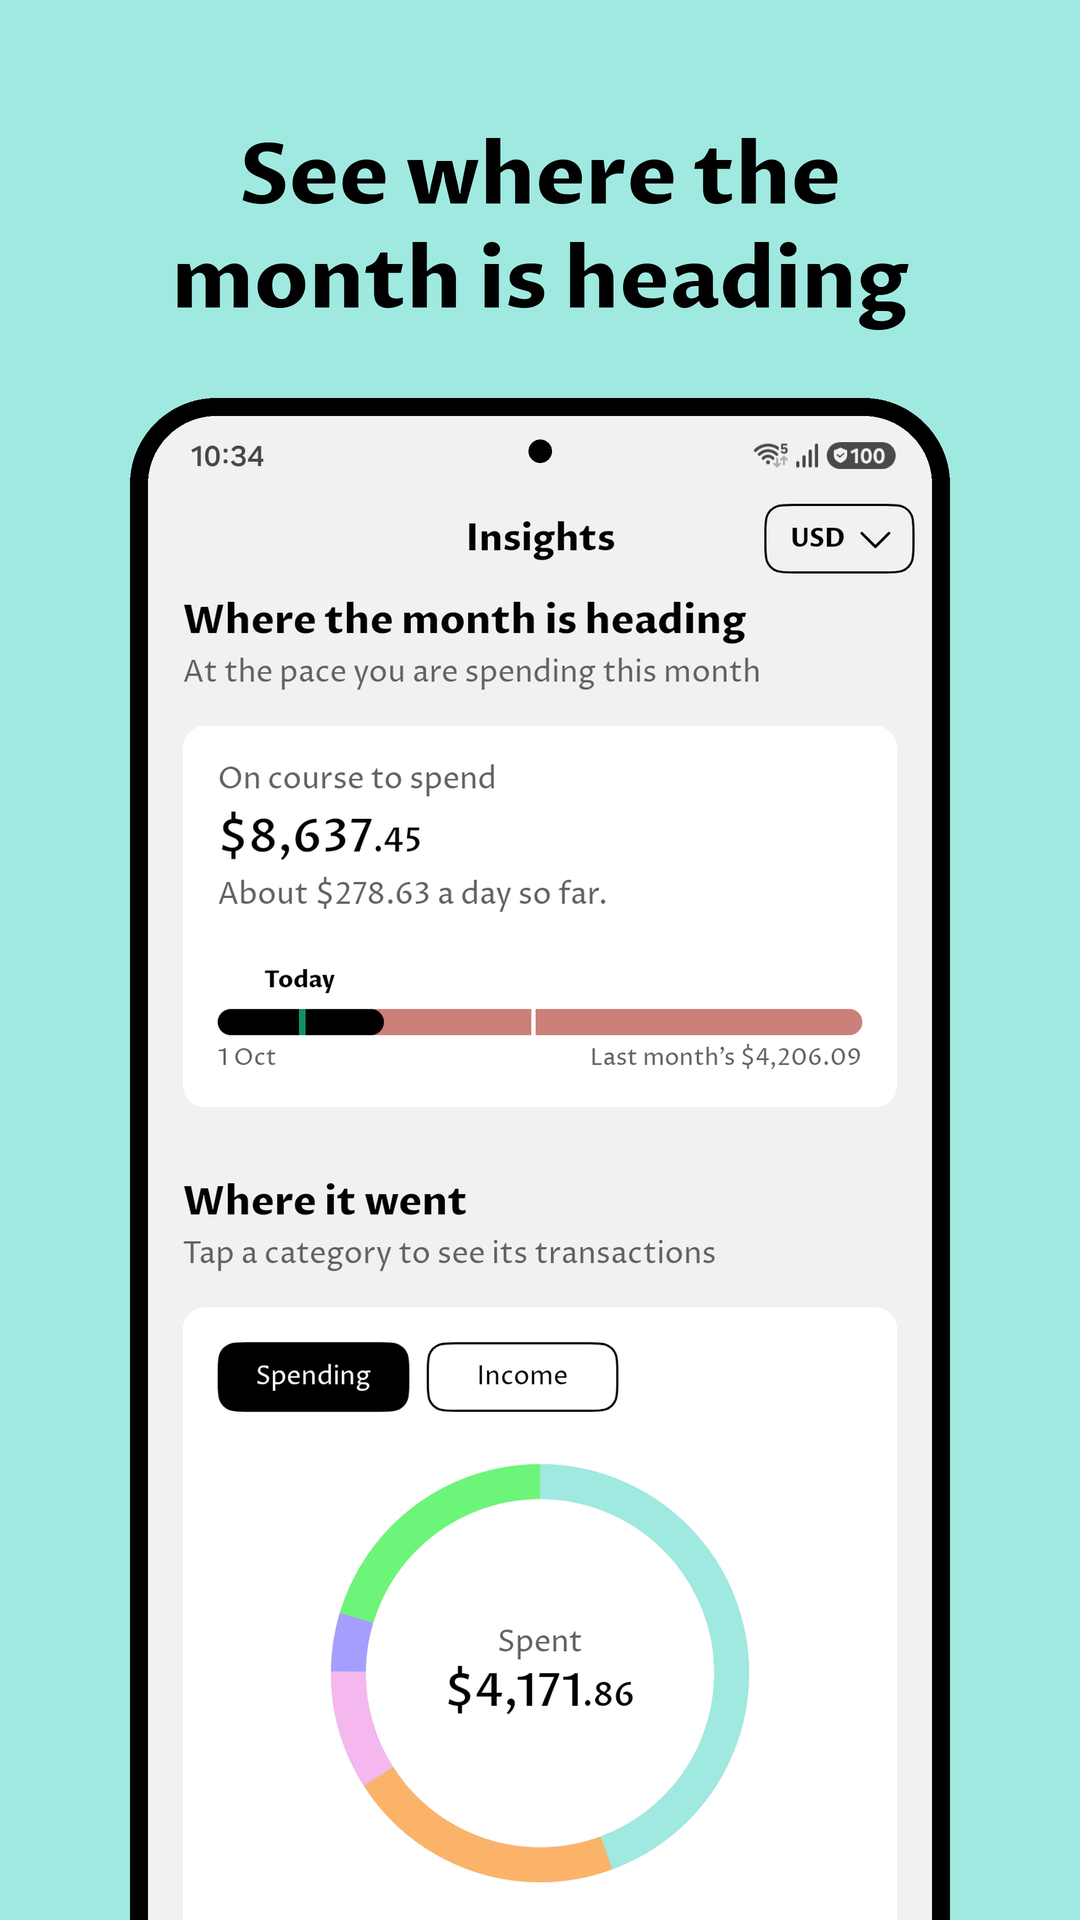
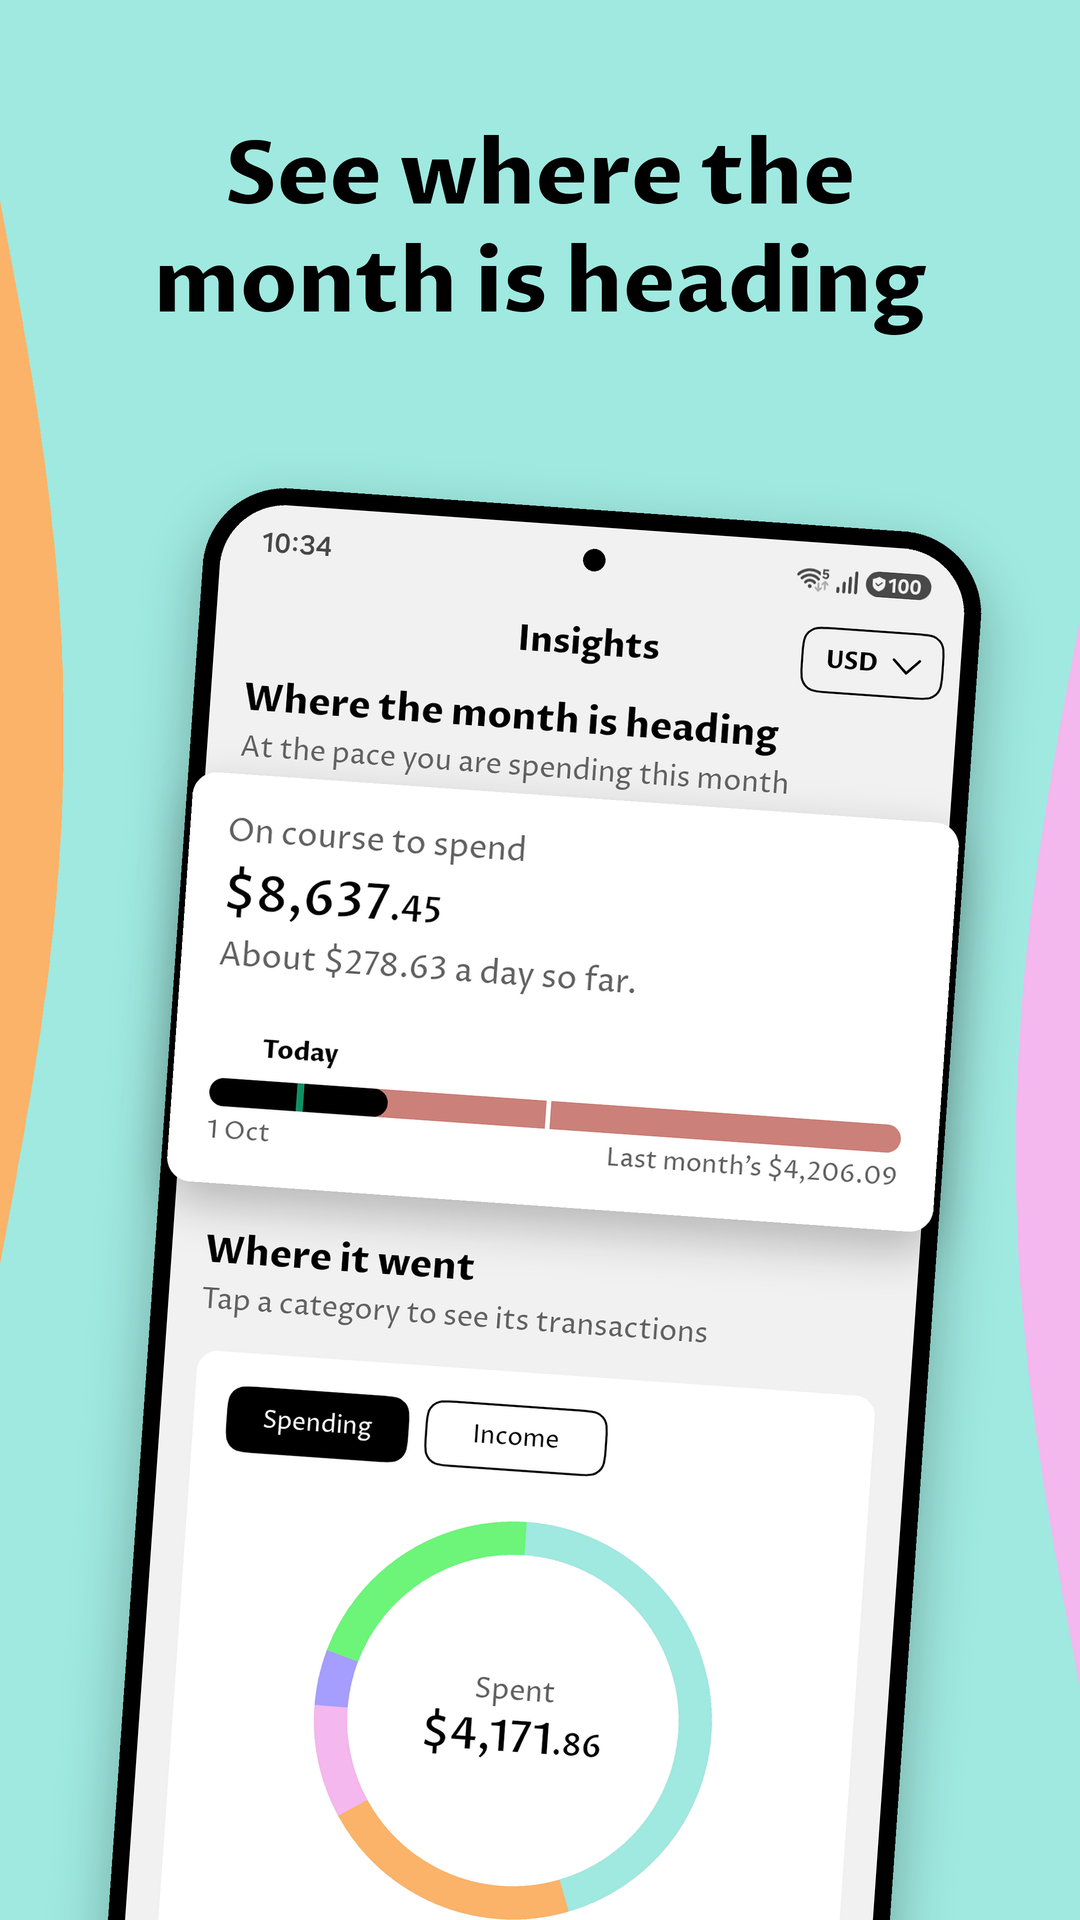
feat(store): screenshots as one running strip, with cards lifted out; new feature graphic and mockups

Changed region(s): [[0.0917, 0.0625, 1.0, 1.0], [0.0, 0.125, 0.0611, 0.6562], [0.5194, 0.4375, 0.55, 0.4688]]

diff --git a/scripts/generate-store-assets.py b/scripts/generate-store-assets.py
@@ -3,9 +3,12 @@
 Draws the store's pictures from the phone screenshots in store/raw:
 
   store/play/01-…png        Google Play screenshots, 1080 x 1920 (Play refuses anything taller than 2:1,
-                            so a raw 1080 x 2340 capture cannot be uploaded as it is)
+                            so a raw 1080 x 2340 capture cannot be uploaded as it is). They are cut from
+                            one long picture, so the grounds and the lifted cards run on from each into the next.
+  store/play-strip.jpg      that long picture, reduced, to look at
   store/feature-graphic.png Google Play feature graphic, 1024 x 500
-  store/mockups/…png        each screen in a phone frame on a clear ground, and three together
+  store/mockups/…png        each screen in a phone frame on a clear ground, and the phones
+                            together: a fan, a cascade and the cards by themselves
 
     python3 scripts/generate-store-assets.py      (needs Pillow)
 
@@ -14,7 +17,8 @@ with the status bar cleaned (`adb shell am broadcast -a com.android.systemui.dem
 the typeface and the mark are the design system's; the headlines are in HEADLINES below.
 """
 from pathlib import Path
-from PIL import Image, ImageDraw, ImageFont
+import math
+from PIL import Image, ImageDraw, ImageFilter, ImageFont
 
 ROOT = Path(__file__).resolve().parent.parent
 RAW = ROOT / 'store' / 'raw'
@@ -28,18 +32,35 @@ PAGE = (241, 241, 241)
 BRAND_DEEP = (1, 106, 77)
 BRAND = (17, 182, 122)
 BRAND_BRIGHT = (108, 245, 121)
-PASTEL = {'lilac': (165, 158, 254), 'pink': (244, 183, 238), 'orange': (251, 179, 105), 'teal': (159, 233, 224), 'green': (108, 245, 121)}
+PASTEL = {'lilac': (165, 158, 254), 'pink': (244, 183, 238), 'orange': (251, 179, 105), 'teal': (159, 233, 224), 'green': (108, 245, 121), 'blue': (172, 196, 247)}
 
-# Each Play screenshot: the capture, the line over it, and its ground ('waves' is the launch screen's).
-HEADLINES = [
-    ('home', 'Know where your\nmoney goes', 'waves'),
-    ('add', 'Add an expense\nin seconds', 'lilac'),
-    ('accounts', 'Every account,\nevery currency', 'orange'),
-    ('insights-30b', 'See where the\nmonth is heading', 'teal'),
-    ('insights-30c', 'Know what\nyou spend on', 'pink'),
-    ('loan', 'Lent or borrowed,\nnever forgotten', 'green'),
-    ('activity', 'Everything you\nrecorded, in one list', 'page'),
+# The cards lifted out of a screen: the capture, and roughly where the card is in it (snapped to its edge).
+CARDS = {
+    'balance': ('home', (48, 259, 1032, 823)),
+    'stack': ('home-accounts', (48, 793, 1032, 1533)),
+    'amount': ('add', (48, 454, 1032, 748)),
+    'euro': ('accounts', (48, 503, 1032, 694)),
+    'rupee': ('accounts', (48, 1507, 1032, 1893)),
+    'forecast': ('insights-30b', (48, 427, 1032, 951)),
+    'donut': ('insights-30b', (48, 1400, 1032, 2075)),
+    'loan': ('loan', (48, 259, 1032, 949)),
+    'day': ('activity', (48, 664, 1032, 1051)),
+    'spending': ('insights-30c', (48, 690, 1032, 1160)),
+}
+
+# Each Play screenshot: the capture, the line over it, its ground ('waves' is the launch screen's),
+# and the cards lifted out of it. A lifted card is drawn over its own place on the phone, a little
+# larger and at the phone's lean, so it stands out past the frame on both sides.
+SCREENS = [
+    ('home', 'Know where your\nmoney goes', 'waves', ['balance']),
+    ('add', 'Add an expense\nin seconds', 'lilac', ['amount']),
+    ('accounts', 'Every account,\nevery currency', 'orange', ['euro', 'rupee']),
+    ('insights-30b', 'See where the\nmonth is heading', 'teal', ['forecast']),
+    ('insights-30c', 'Know what\nyou spend on', 'pink', ['spending']),
+    ('loan', 'Lent or borrowed,\nnever forgotten', 'blue', ['loan']),
+    ('activity', 'Everything you\nrecorded, in one list', 'page', ['day']),
 ]
+LIFT = 1.13  # how much larger a lifted card is than the same card on the phone under it
 
 SS = 2  # everything is drawn at twice its size and reduced, for clean edges
 
@@ -57,22 +78,16 @@ def cubic(p0, p1, p2, p3, steps=40):
     return pts
 
 
-def waves(w, h):
-    """The launch screen's ground (design/components/WaveField.tsx), at any size."""
+def waves(w, h, deep=1.0):
+    """The launch screen's ground (design/components/WaveField.tsx), at any size; `deep` flattens the dark wave."""
     im = Image.new('RGB', (w, h), BRAND)
     d = ImageDraw.Draw(im)
     p = lambda x, y: (x * w, y * h)
-    deep = cubic(p(0.26, 0), p(0.5, 0.17), p(0.78, 0.06), p(1, 0.27)) + [p(1, 0)]
-    d.polygon(deep, fill=BRAND_DEEP)
+    dark = cubic(p(0.26, 0), p(0.5, 0.17 * deep), p(0.78, 0.06 * deep), p(1, 0.27 * deep)) + [p(1, 0)]
+    d.polygon(dark, fill=BRAND_DEEP)
     bright = [p(0, 1), p(0, 0.84)] + cubic(p(0, 0.84), p(0.16, 0.75), p(0.3, 0.91), p(0.48, 0.84)) + cubic(p(0.48, 0.84), p(0.68, 0.76), p(0.82, 0.85), p(1, 0.7)) + [p(1, 1)]
     d.polygon(bright, fill=BRAND_BRIGHT)
     return im
-
-
-def ground(kind, w, h):
-    if kind == 'waves':
-        return waves(w, h)
-    return Image.new('RGB', (w, h), PAGE if kind == 'page' else PASTEL[kind])
 
 
 def phone(shot, width):
@@ -103,6 +118,80 @@ def mark(width):
     return im.resize((width, round(width * im.height / im.width)), Image.LANCZOS)
 
 
+def shot(name):
+    return Image.open(RAW / f'{name}.png').convert('RGB')
+
+
+def shadowed(layer, blur, drop, strength=70):
+    """A layer with a soft shadow under it; the picture grows by the returned pad on every side."""
+    pad = blur * 3
+    out = Image.new('RGBA', (layer.width + 2 * pad, layer.height + 2 * pad), (0, 0, 0, 0))
+    shade = Image.new('RGBA', out.size, (0, 0, 0, 0))
+    shade.paste(INK + (strength,), (pad, pad + drop), layer.getchannel('A'))
+    out = Image.alpha_composite(out, shade.filter(ImageFilter.GaussianBlur(blur)))
+    out.alpha_composite(layer, (pad, pad))
+    return out
+
+
+def put(im, layer, cx, cy):
+    im.alpha_composite(layer, (round(cx - layer.width / 2), round(cy - layer.height / 2)))
+
+
+def tilted(layer, degrees):
+    """Turned by `degrees`, clockwise."""
+    return layer.rotate(-degrees, resample=Image.BICUBIC, expand=True) if degrees else layer
+
+
+def card(name, width, lean=0, shade=True):
+    """A card lifted out of its screen: cut on its own edge, corners rounded, `width` across, leaning."""
+    source, (l, t, r, b) = CARDS[name]
+    im = shot(source)
+    # Snap each side to where the grey page ends, when that is within a few pixels of the given box.
+    m = 14
+    near = im.crop((l - m, t - m, r + m, b + m))
+    off = near.point(lambda v: 255 if abs(v - PAGE[0]) > 3 else 0).convert('L').getbbox()
+    if off:
+        l, r = (l - m + off[0] if off[0] > 0 else l), (l - m + off[2] if off[2] < near.width else r)
+        t, b = (t - m + off[1] if off[1] > 0 else t), (t - m + off[3] if off[3] < near.height else b)
+    cut = im.crop((l, t, r, b)).convert('RGBA')
+    scale = width / cut.width
+    cut = cut.resize((width, round(cut.height * scale)), Image.LANCZOS)
+    mask = Image.new('L', (cut.width * 2, cut.height * 2), 0)
+    ImageDraw.Draw(mask).rounded_rectangle((0, 0, mask.width - 1, mask.height - 1), radius=round(30 * scale * 2), fill=255)
+    cut.putalpha(mask.resize(cut.size, Image.LANCZOS))
+    cut = tilted(cut, lean)
+    return shadowed(cut, max(4, round(width * 0.03)), max(3, round(width * 0.025)), 64) if shade else cut
+
+
+def device(name, width, lean=0):
+    """A screen in its phone, leaning, with its shadow."""
+    return shadowed(tilted(phone(shot(name), width), lean), max(4, round(width * 0.035)), max(3, round(width * 0.03)), 72)
+
+
+# A phone laid back and turned, as drawn on an isometric grid: where its width and its height point.
+LAID = ((0.88, 0.36), (-0.52, 0.80))
+
+
+def laid_back(layer, depth, axes=LAID):
+    """A phone laid back (an affine picture of it), given `depth` pixels of thickness."""
+    (ax, ay), (bx, by) = axes
+    w, h = layer.size
+    xs = [0, ax * w, bx * h, ax * w + bx * h]
+    ys = [0, ay * w, by * h, ay * w + by * h]
+    ox, oy = -min(xs), -min(ys)
+    size = (math.ceil(max(xs) + ox), math.ceil(max(ys) + oy))
+    det = ax * by - bx * ay
+    # Pillow wants the way back: from a point of the result to a point of the phone.
+    back = (by / det, -bx / det, (bx * oy - by * ox) / det, -ay / det, ax / det, (ay * ox - ax * oy) / det)
+    face = layer.transform(size, Image.AFFINE, back, resample=Image.BICUBIC)
+    out = Image.new('RGBA', (size[0], size[1] + depth), (0, 0, 0, 0))
+    side = Image.new('RGBA', size, (38, 38, 38, 255))
+    for i in range(depth, 0, -1):
+        out.paste(side, (0, i), face.getchannel('A'))
+    out.alpha_composite(face)
+    return out
+
+
 def centred_text(draw, text, f, cx, top, fill, leading):
     y = top
     for line in text.split('\n'):
@@ -112,56 +201,117 @@ def centred_text(draw, text, f, cx, top, fill, leading):
     return y
 
 
-def play_screenshot(name, headline, kind):
-    W, H = 1080 * SS, 1920 * SS
-    im = ground(kind, W, H)
+PANEL = (1080, 1920)
+
+
+def play_strip():
+    """All the Play screenshots as one picture, so the grounds and the cards run on from one into the next."""
+    pw, ph = PANEL[0] * SS, PANEL[1] * SS
+    W, H = pw * len(SCREENS), ph
+    im = Image.new('RGBA', (W, H), BRAND + (255,))
+    # The dark wave is kept shallow here, so the headline stays on the middle green.
+    im.paste(waves(pw + 200 * SS, H, deep=0.3), (0, 0))
     d = ImageDraw.Draw(im)
-    bottom = centred_text(d, headline, font('700Bold', 84 * SS), W / 2, 120 * SS, INK, 104 * SS)
-    device = phone(Image.open(RAW / f'{name}.png'), 820 * SS)
-    # The phone runs off the foot of the picture, so the screen is as large as it can be.
-    im.paste(device, ((W - device.width) // 2, bottom + 70 * SS), device)
-    return im.resize((1080, 1920), Image.LANCZOS)
+    # Each ground meets the last along a slow wave, not a straight cut at the join.
+    for i, (_, _, kind, _) in enumerate(SCREENS):
+        if i == 0:
+            continue
+        edge = [(i * pw + 64 * SS * math.sin(2 * math.pi * y / H * 0.9 + i * 1.9), y) for y in range(0, H + 16, 16)]
+        d.polygon(edge + [(W, H), (W, 0)], fill=PAGE if kind == 'page' else PASTEL[kind])
+    for i, (name, headline, _, lifted) in enumerate(SCREENS):
+        cx = i * pw + pw // 2
+        centred_text(d, headline, font('700Bold', 88 * SS), cx, 116 * SS, INK, 108 * SS)
+        # Each phone leans the other way from the last; it runs off the foot of the picture.
+        width, lean = 780 * SS, -4 if i % 2 == 0 else 4
+        body = device(name, width, lean)
+        cy = 400 * SS + body.height / 2
+        put(im, body, cx, cy)
+        # Where a point of the screen lands on the picture: the frame's inset, then the lean about the phone's middle.
+        bezel = round(width * 0.022)
+        scale = (width - 2 * bezel) / 1080
+        turn = math.radians(lean)
+        for which in lifted:
+            l, t, r, b = CARDS[which][1]
+            x = bezel + (l + r) / 2 * scale - width / 2
+            y = bezel + (t + b) / 2 * scale - (2340 * scale + 2 * bezel) / 2
+            put(im, card(which, round((r - l) * scale * LIFT), lean),
+                cx + x * math.cos(turn) - y * math.sin(turn), cy + x * math.sin(turn) + y * math.cos(turn))
+    return im.convert('RGB')
+
+
+def lockup(im, left, top, height):
+    """The mark and the name side by side; returns where it ends."""
+    m = mark(round(height * 392 / 474))
+    im.alpha_composite(m, (left, top))
+    f = font('700Bold', round(height * 0.86))
+    d = ImageDraw.Draw(im)
+    box = d.textbbox((0, 0), 'Fintraq', font=f)
+    d.text((left + m.width + round(height * 0.3), top + (m.height - (box[3] + box[1])) // 2), 'Fintraq', font=f, fill=INK)
+    return top + m.height
 
 
 def feature_graphic():
     W, H = 1024 * SS, 500 * SS
-    im = waves(W, H)
+    im = waves(W, H).convert('RGBA')
+    put(im, device('home', 300 * SS, 8), 815 * SS, 330 * SS)
+    put(im, card('stack', 270 * SS, -6), 632 * SS, 372 * SS)
+    put(im, card('donut', 184 * SS, 7), 922 * SS, 322 * SS)
     d = ImageDraw.Draw(im)
-    m = mark(84 * SS)
-    left = 80 * SS
-    im.paste(m, (left, 96 * SS), m)
-    d.text((left + m.width + 28 * SS, 96 * SS + (m.height - 78 * SS) // 2 - 6 * SS), 'Fintraq', font=font('700Bold', 78 * SS), fill=INK)
-    y = 96 * SS + m.height + 44 * SS
-    for line in ('Know where your', 'money goes'):
-        d.text((left, y), line, font=font('700Bold', 50 * SS), fill=INK)
-        y += 62 * SS
-    d.text((left, y + 14 * SS), 'Free to record. Private by design.', font=font('500Medium', 26 * SS), fill=INK)
-    device = phone(Image.open(RAW / 'home.png'), 300 * SS)
-    im.paste(device, (W - device.width - 110 * SS, 56 * SS), device)
-    return im.resize((1024, 500), Image.LANCZOS)
+    left = 64 * SS
+    y = lockup(im, left, 96 * SS, 64 * SS) + 44 * SS
+    for line in ('Know where', 'your money goes'):
+        d.text((left, y), line, font=font('700Bold', 46 * SS), fill=INK)
+        y += 58 * SS
+    return im.convert('RGB').resize((1024, 500), Image.LANCZOS)
 
 
-def trio():
-    """Three phones together on the grey page, for a website or a post."""
+def fan():
+    """Three phones fanned out on the launch screen's waves, with two cards lifted out."""
     W, H = 2400, 1600
-    im = Image.new('RGB', (W, H), PAGE)
-    side = 560
-    for name, x, y, width in (('insights-30c', 300, 330, side), ('add', W - 300 - side, 330, side), ('home', (W - 640) // 2, 160, 640)):
-        device = phone(Image.open(RAW / f'{name}.png'), width)
-        im.paste(device, (x, y), device)
-    return im
+    im = waves(W, H).convert('RGBA')
+    put(im, device('insights-30c', 540, -9), 700, 980)
+    put(im, device('loan', 540, 9), W - 700, 980)
+    put(im, device('home', 620, 0), W // 2, 880)
+    put(im, card('donut', 520, -6), 330, 1150)
+    put(im, card('stack', 560, 6), W - 340, 1180)
+    return im.convert('RGB')
+
+
+def cascade():
+    """Five phones laid back in a row on the grey page, each a step lower than the last."""
+    W, H = 2400, 1600
+    im = Image.new('RGBA', (W, H), PAGE + (255,))
+    for i, name in enumerate(('activity', 'insights-30c', 'home', 'add', 'accounts')):
+        body = shadowed(laid_back(phone(shot(name), 560), 16), 30, 26, 55)
+        im.alpha_composite(body, (-420 + i * 500, -520 + i * 205))
+    return im.convert('RGB')
+
+
+def cards():
+    """The cards by themselves, loosely laid out on the waves: for a post or a web page."""
+    W, H = 2400, 1600
+    im = waves(W, H).convert('RGBA')
+    for which, x, y, width, lean in (('forecast', 450, 400, 720, -5), ('day', 560, 1130, 760, 4), ('balance', 1280, 580, 800, 3),
+                                    ('donut', 1960, 520, 640, -4), ('loan', 1330, 1230, 700, -3), ('stack', 2000, 1200, 660, 5)):
+        put(im, card(which, width, lean), x, y)
+    return im.convert('RGB')
 
 
 def main():
     (OUT / 'play').mkdir(parents=True, exist_ok=True)
     (OUT / 'mockups').mkdir(parents=True, exist_ok=True)
-    for i, (name, headline, kind) in enumerate(HEADLINES, 1):
-        play_screenshot(name, headline, kind).save(OUT / 'play' / f'{i:02d}-{name}.png', optimize=True)
+    strip = play_strip()
+    pw = PANEL[0] * SS
+    for i, (name, *_) in enumerate(SCREENS):
+        strip.crop((i * pw, 0, (i + 1) * pw, strip.height)).resize(PANEL, Image.LANCZOS).save(OUT / 'play' / f'{i + 1:02d}-{name}.png', optimize=True)
+    strip.resize((PANEL[0] * len(SCREENS) // 3, PANEL[1] // 3), Image.LANCZOS).save(OUT / 'play-strip.jpg', quality=90)
     feature_graphic().save(OUT / 'feature-graphic.png', optimize=True)
-    for shot in sorted(RAW.glob('*.png')):
-        phone(Image.open(shot), 900).save(OUT / 'mockups' / shot.name, optimize=True)
-    trio().save(OUT / 'mockups' / 'three-phones.jpg', quality=92)
-    print('store/play, store/feature-graphic.png and store/mockups written')
+    for raw in sorted(RAW.glob('*.png')):
+        phone(Image.open(raw), 900).save(OUT / 'mockups' / raw.name, optimize=True)
+    fan().save(OUT / 'mockups' / 'fan.jpg', quality=92)
+    cascade().save(OUT / 'mockups' / 'cascade.jpg', quality=92)
+    cards().save(OUT / 'mockups' / 'cards.jpg', quality=92)
+    print('store/play, store/play-strip.jpg, store/feature-graphic.png and store/mockups written')
 
 
 if __name__ == '__main__':
